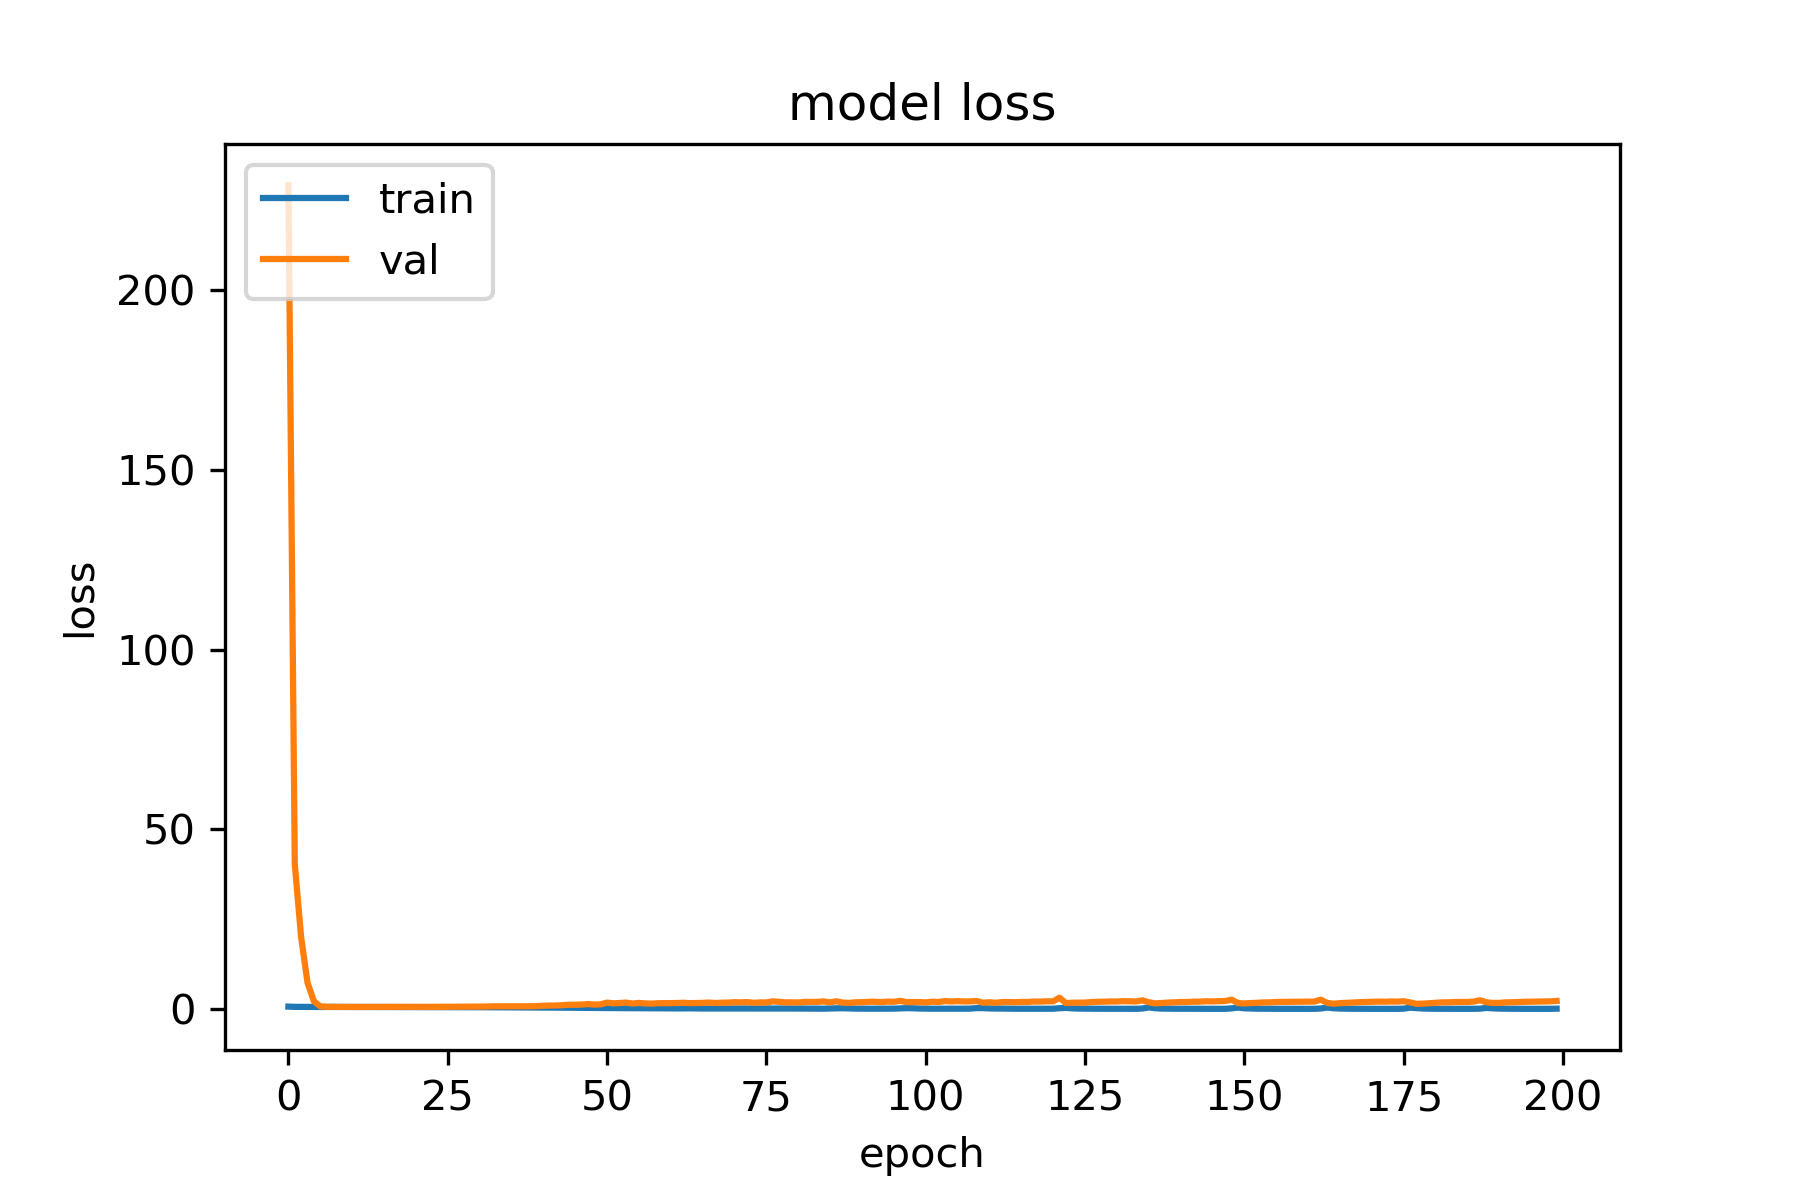
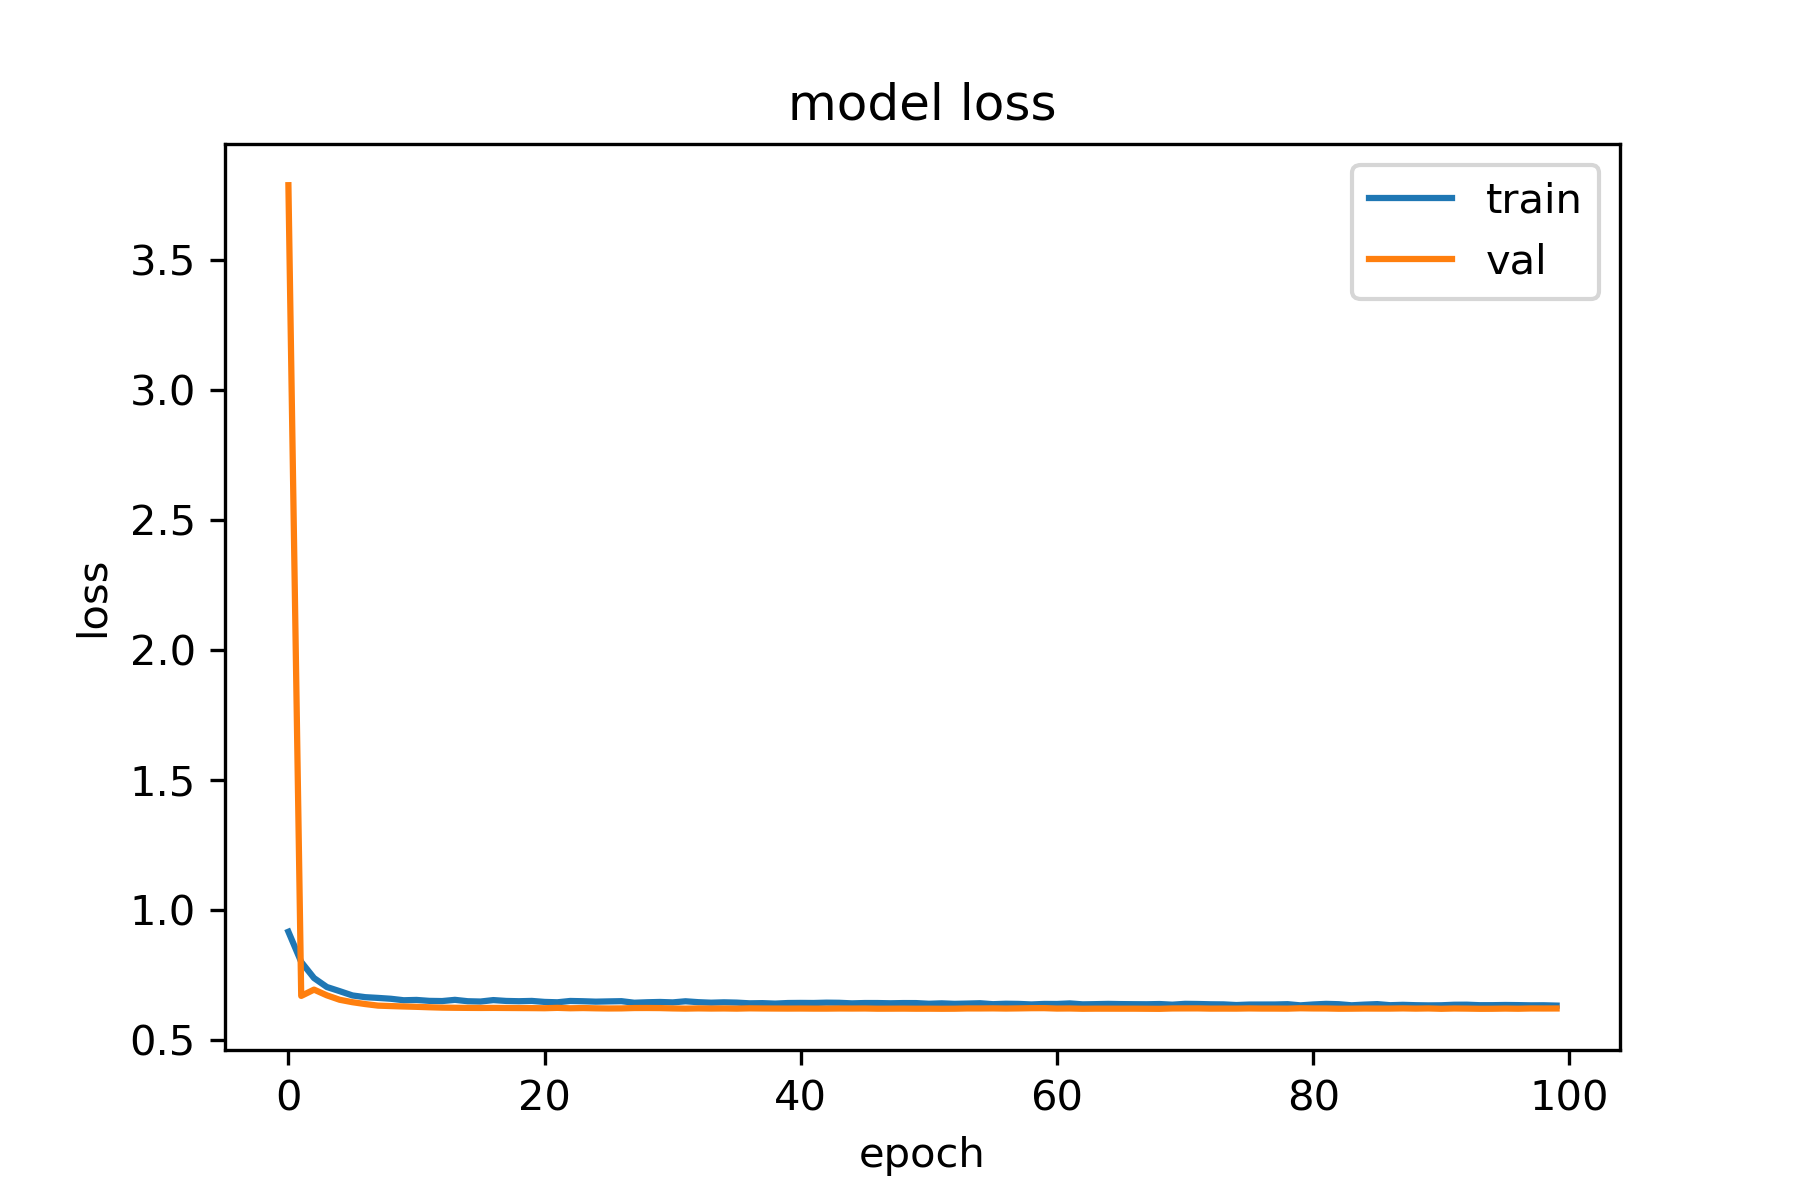
Final Edit Before Submission

diff --git a/trial1.py b/trial1.py
@@ -71,11 +71,11 @@ N = area_stat.shape[0]          # Number of nodes in the graph (Do not change)
 F = area_stat_np.shape[1]          # Original size of node features (Do not change)
 l2_reg = 5e-5           # L2 regularization rate
 learning_rate = 0.0001     # Learning rate
-epochs = 10      # Number of training epochs
+epochs = 100      # Number of training epochs
 embedding_vecor_length1 = 150
 embedding_vecor_length2 = 150
 include_batch_norm_layers = True
-include_dropout_layers = False
+include_dropout_layers = True
 deep1_layer = 200
 deep2_layer = 200
 
@@ -258,14 +258,14 @@ dr2 = Dropout(rate = .1)(ac4)#dropoff on d2
 if not include_dropout_layers: 
     dr2 = ac4
 
-output = Dense(units=2,kernel_regularizer=l2(l2_reg),activation='softmax',use_bias=True)(dr2)#output softmax layer
+output = Dense(units=1,kernel_regularizer=l2(l2_reg),activation='sigmoid',use_bias=True)(dr2)#output softmax layer
 
 
 model = Model(inputs=[area_in, fltr_in, trip_in], outputs=output)#Build the model
 
 optimizer = SGD(lr=learning_rate)#Set the optimizer
 model.compile(optimizer=optimizer,
-              loss='categorical_crossentropy',metrics=['accuracy',keras.metrics.AUC(),keras.metrics.Precision(), keras.metrics.Recall()])#Compile the model
+              loss='binary_crossentropy',metrics=['accuracy',keras.metrics.AUC(),keras.metrics.Precision(), keras.metrics.Recall()])#Compile the model
 model.summary()#Print model summary
 
 plot_model(model, to_file='model_plot.png', show_shapes=True, show_layer_names=True)#plot model as block diagram
@@ -281,7 +281,7 @@ def generator(train_np, label_train_np):#data generator to feed the fitting meth
     X_batch = [area_stat_np,fltr.todense(),train_np[N*counter:N*(counter+1)]]
     y_batch = label_train_np[N*counter:N*(counter+1)]
     counter += 1
-    yield X_batch,y_batch
+    yield X_batch,y_batch[:,0]
 
     #restart counter to yeild data in the next epoch as well
     if counter >= number_of_batches:
